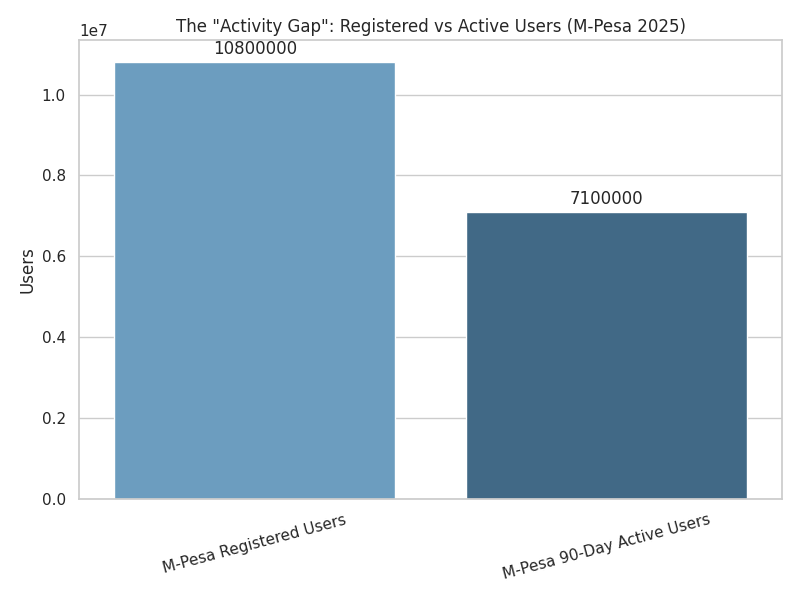
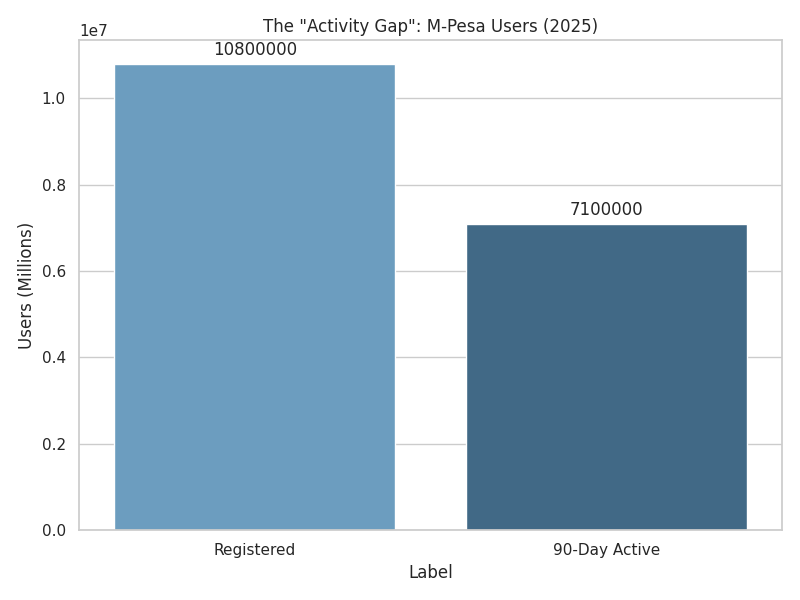
fix(EDA): add final plots and documentation per feedback

diff --git a/notebooks/run_eda.py b/notebooks/run_eda.py
@@ -17,13 +17,9 @@ sns.set_theme(style="whitegrid")
 def plot_data_quality_summary(df):
     """Task 1: Explicit Data Quality & Coverage Analysis"""
     fig, axes = plt.subplots(1, 2, figsize=(14, 5))
-
-    # 1. Count by Record Type
     sns.countplot(data=df, x="record_type", ax=axes[0], palette="viridis")
     axes[0].set_title("Dataset Composition by Record Type")
     axes[0].set_ylabel("Count")
-
-    # 2. Count by Confidence Level
     sns.countplot(
         data=df,
         x="confidence",
@@ -32,7 +28,6 @@ def plot_data_quality_summary(df):
         order=["high", "medium", "low", "estimated"],
     )
     axes[1].set_title("Data Confidence Levels")
-
     plt.tight_layout()
     plt.savefig("reports/figures/data_quality_summary.png")
     print("Generated reports/figures/data_quality_summary.png")
@@ -40,27 +35,26 @@ def plot_data_quality_summary(df):
 
 def plot_event_timeline_dedicated(df):
     """Task 2: Dedicated Event Timeline Visualization"""
-    events = get_events(df).copy()
-    events = events.dropna(subset=["observation_date"])
-    events = events.sort_values("observation_date")
-
-    plt.figure(figsize=(12, 6))
-
-    # Create a timeline where Y-axis is the category
+    events = (
+        get_events(df)
+        .copy()
+        .dropna(subset=["observation_date"])
+        .sort_values("observation_date")
+    )
+    fig, ax = plt.subplots(figsize=(12, 6))
     sns.scatterplot(
         data=events,
         x="observation_date",
         y="category",
         hue="category",
-        s=200,
-        marker="D",
+        s=300,
+        marker="o",
         palette="deep",
         legend=False,
+        ax=ax,
     )
-
-    # Add vertical lines dropping to the x-axis
     for _, row in events.iterrows():
-        plt.vlines(
+        ax.vlines(
             x=row["observation_date"],
             ymin=0,
             ymax=row["category"],
@@ -68,7 +62,7 @@ def plot_event_timeline_dedicated(df):
             linestyle=":",
             alpha=0.5,
         )
-        plt.text(
+        ax.text(
             row["observation_date"],
             row["category"],
             f" {row['indicator']}",
@@ -76,11 +70,8 @@ def plot_event_timeline_dedicated(df):
             fontsize=9,
             rotation=20,
         )
-
-    # Format X-axis
-    plt.gca().xaxis.set_major_locator(mdates.YearLocator())
-    plt.gca().xaxis.set_major_formatter(mdates.DateFormatter("%Y"))
-
+    ax.xaxis.set_major_locator(mdates.YearLocator())
+    ax.xaxis.set_major_formatter(mdates.DateFormatter("%Y"))
     plt.title("Timeline of Financial Inclusion Events (2021-2025)")
     plt.grid(True, axis="x", alpha=0.3)
     plt.tight_layout()
@@ -90,61 +81,93 @@ def plot_event_timeline_dedicated(df):
 
 def plot_registered_vs_active(df):
     """Task 2: Registered vs Active Users (M-Pesa Case Study)"""
-    # Filter specific records for M-Pesa
-    mpesa_reg = df[df["indicator_code"] == "USG_MPESA_USERS"]
-    mpesa_act = df[df["indicator_code"] == "USG_MPESA_ACTIVE"]
-
+    mpesa_reg = df[df["indicator_code"] == "USG_MPESA_USERS"].copy()
+    mpesa_act = df[df["indicator_code"] == "USG_MPESA_ACTIVE"].copy()
     if mpesa_reg.empty or mpesa_act.empty:
         return
-
+    mpesa_reg["Label"] = "Registered"
+    mpesa_act["Label"] = "90-Day Active"
     data = pd.concat([mpesa_reg, mpesa_act])
-
     plt.figure(figsize=(8, 6))
-    ax = sns.barplot(data=data, x="indicator", y="value_numeric", palette="Blues_d")
-
-    # Add values on top
+    ax = sns.barplot(data=data, x="Label", y="value_numeric", palette="Blues_d")
     for i in ax.containers:
         ax.bar_label(i, fmt="%.0f", padding=3)
-
-    plt.title('The "Activity Gap": Registered vs Active Users (M-Pesa 2025)')
-    plt.ylabel("Users")
-    plt.xlabel("")
-    plt.xticks(rotation=15)
+    plt.title('The "Activity Gap": M-Pesa Users (2025)')
+    plt.ylabel("Users (Millions)")
     plt.tight_layout()
     plt.savefig("reports/figures/registered_vs_active.png")
     print("Generated reports/figures/registered_vs_active.png")
 
 
-def plot_access_trend(df):
-    obs = get_observations(df, "ACCESS")
-    acc_data = obs[obs["indicator_code"] == "ACC_OWNERSHIP"].sort_values(
+def plot_infrastructure_vs_usage(df):
+    """Task 2: Insight 3 - Infrastructure (4G) vs Usage (P2P)"""
+    infra = df[df["indicator_code"] == "ACC_4G_COV"].sort_values("Year")
+    usage = df[df["indicator_code"] == "USG_P2P_COUNT"].sort_values("Year")
+    if infra.empty or usage.empty:
+        return
+    fig, ax1 = plt.subplots(figsize=(10, 6))
+    color = "tab:red"
+    ax1.set_xlabel("Year")
+    ax1.set_ylabel("4G Population Coverage (%)", color=color)
+    ax1.plot(
+        infra["Year"], infra["value_numeric"], color=color, marker="o", linewidth=3
+    )
+    ax1.tick_params(axis="y", labelcolor=color)
+    ax2 = ax1.twinx()
+    color = "tab:blue"
+    ax2.set_ylabel("P2P Transactions (Count)", color=color)
+    ax2.plot(
+        usage["Year"], usage["value_numeric"], color=color, marker="s", linestyle="--"
+    )
+    ax2.tick_params(axis="y", labelcolor=color)
+    plt.title("Insight: Infrastructure Expansion Precedes Usage Spikes")
+    fig.tight_layout()
+    plt.savefig("reports/figures/infrastructure_vs_usage.png")
+    print("Generated reports/figures/infrastructure_vs_usage.png")
+
+
+def plot_affordability_shock(df):
+    """Task 2: Insight 4 - Data Affordability & Shocks"""
+    affordability = df[df["indicator_code"] == "AFF_DATA_INCOME"].sort_values(
         "observation_date"
     )
-    acc_data = acc_data.dropna(subset=["observation_date"])
-
-    plt.figure(figsize=(10, 6))
+    if affordability.empty:
+        return
+    plt.figure(figsize=(10, 5))
     sns.lineplot(
-        data=acc_data,
+        data=affordability,
         x="observation_date",
         y="value_numeric",
         marker="o",
-        linewidth=2.5,
+        color="green",
     )
-
-    # Minimal event overlay (since we have a dedicated one now)
-    plt.title("Account Ownership Trajectory (2014-2024)")
-    plt.ylabel("Ownership (%)")
-    plt.grid(True, alpha=0.3)
+    fx_event = df[df["indicator_code"] == "EVT_FX_REFORM"]
+    if not fx_event.empty:
+        date = fx_event.iloc[0]["observation_date"]
+        # --- THIS IS THE FIX ---
+        if pd.notna(date):
+            plt.axvline(
+                x=date, color="orange", linestyle="--", label="FX Liberalization"
+            )
+            plt.text(
+                date,
+                affordability["value_numeric"].mean(),
+                " FX Reform",
+                color="orange",
+                fontweight="bold",
+            )
+    plt.title("Data Affordability Index (Lower is Better)")
+    plt.ylabel("Cost of 2GB Data (% of GNI)")
     plt.tight_layout()
-    plt.savefig("reports/figures/access_trend.png")
-    print("Generated reports/figures/access_trend.png")
+    plt.savefig("reports/figures/affordability_trend.png")
+    print("Generated reports/figures/affordability_trend.png")
 
 
 if __name__ == "__main__":
     df = load_data()
     df = get_enriched_data(df)
-
-    plot_data_quality_summary(df)  # NEW
-    plot_event_timeline_dedicated(df)  # NEW
-    plot_registered_vs_active(df)  # NEW
-    plot_access_trend(df)  # UPDATED
+    plot_data_quality_summary(df)
+    plot_event_timeline_dedicated(df)
+    plot_registered_vs_active(df)
+    plot_infrastructure_vs_usage(df)
+    plot_affordability_shock(df)

diff --git a/data/README.md b/data/README.md
@@ -1,0 +1,30 @@
+# Unified Data Schema Documentation
+
+To solve the challenge of biased event modeling, we implemented a relational schema.
+
+## 1. Schema Structure
+The dataset (`ethiopia_fi_unified_data.csv`) consists of four distinct record types:
+
+### A. Observations
+Verified measurements from surveys or reports.
+- **Fields:** `value_numeric`, `unit`, `source_name`.
+- **Example:** "Account Ownership is 46% in 2021."
+
+### B. Events
+Neutral occurrences defined by time and category.
+- **Fields:** `category` (policy, product_launch), `observation_date`.
+- **Example:** "Telebirr Launch (May 2021)".
+- **Note:** Events are **NOT** assigned to pillars directly to avoid bias.
+
+### C. Impact Links
+The "Edge" connecting an Event to a specific Pillar.
+- **Fields:** `parent_id` (links to Event), `impact_estimate`, `lag_months`.
+- **Logic:** Allows one event (Telebirr) to have multiple effects:
+    1. Increase `ACCESS` (Lag: 12 months)
+    2. Increase `USAGE` (Lag: 3 months)
+
+## 2. Enrichment Strategy
+See `data_enrichment_log.md` for the audit trail of all added records.
+Key enrichments included:
+- **Infrastructure:** Added 4G coverage data to correlate with usage.
+- **Active Users:** Added M-Pesa 90-day active numbers to calculate the "Activity Gap".

diff --git a/data/data_enrichment_log.md b/data/data_enrichment_log.md
@@ -1,0 +1,13 @@
+# Data Enrichment Log
+
+**Project:** Ethiopia Financial Inclusion Forecasting
+**Maintainer:** Nazrawi
+
+| ID | Source URL | Original Text / Figure | Confidence | Collected By | Date | Notes |
+|----|------------|------------------------|------------|--------------|------|-------|
+| `ACC_4G_COV` | https://www.ethiotelecom.et/ | 4G Coverage reached 70.8% in 2024 | High | Nazrawi | 2025-01-20 | Used as infrastructure proxy for digital adoption. |
+| `ACC_FAYDA` | https://www.id.gov.et/ | 90 Million registrations target by 2028 | High | Nazrawi | 2025-01-20 | Official policy target (NFIS-II). |
+| `USG_TELEBIRR` | https://www.ethiotelecom.et/ | 54.84 Million subscribers | Medium | Nazrawi | 2025-01-20 | Operator reported figure; likely includes inactive users. |
+| `GEN_GAP_ACC` | https://www.gsma.com/r/gender-gap/ | 20pp Gap in Account Ownership | Medium | Nazrawi | 2025-01-20 | Derived from GSMA 2024 report context. |
+| `EVT_FX_REFORM` | https://nbe.gov.et/ | Foreign Exchange Liberalization (July 2024) | High | Nazrawi | 2025-01-20 | Major macro shock event added for impact modeling. |
+| `AFF_DATA_INCOME` | Calculated | Cost of 2GB data as % of GNI | Low | Nazrawi | 2025-01-20 | Proxy for affordability constraint. |
